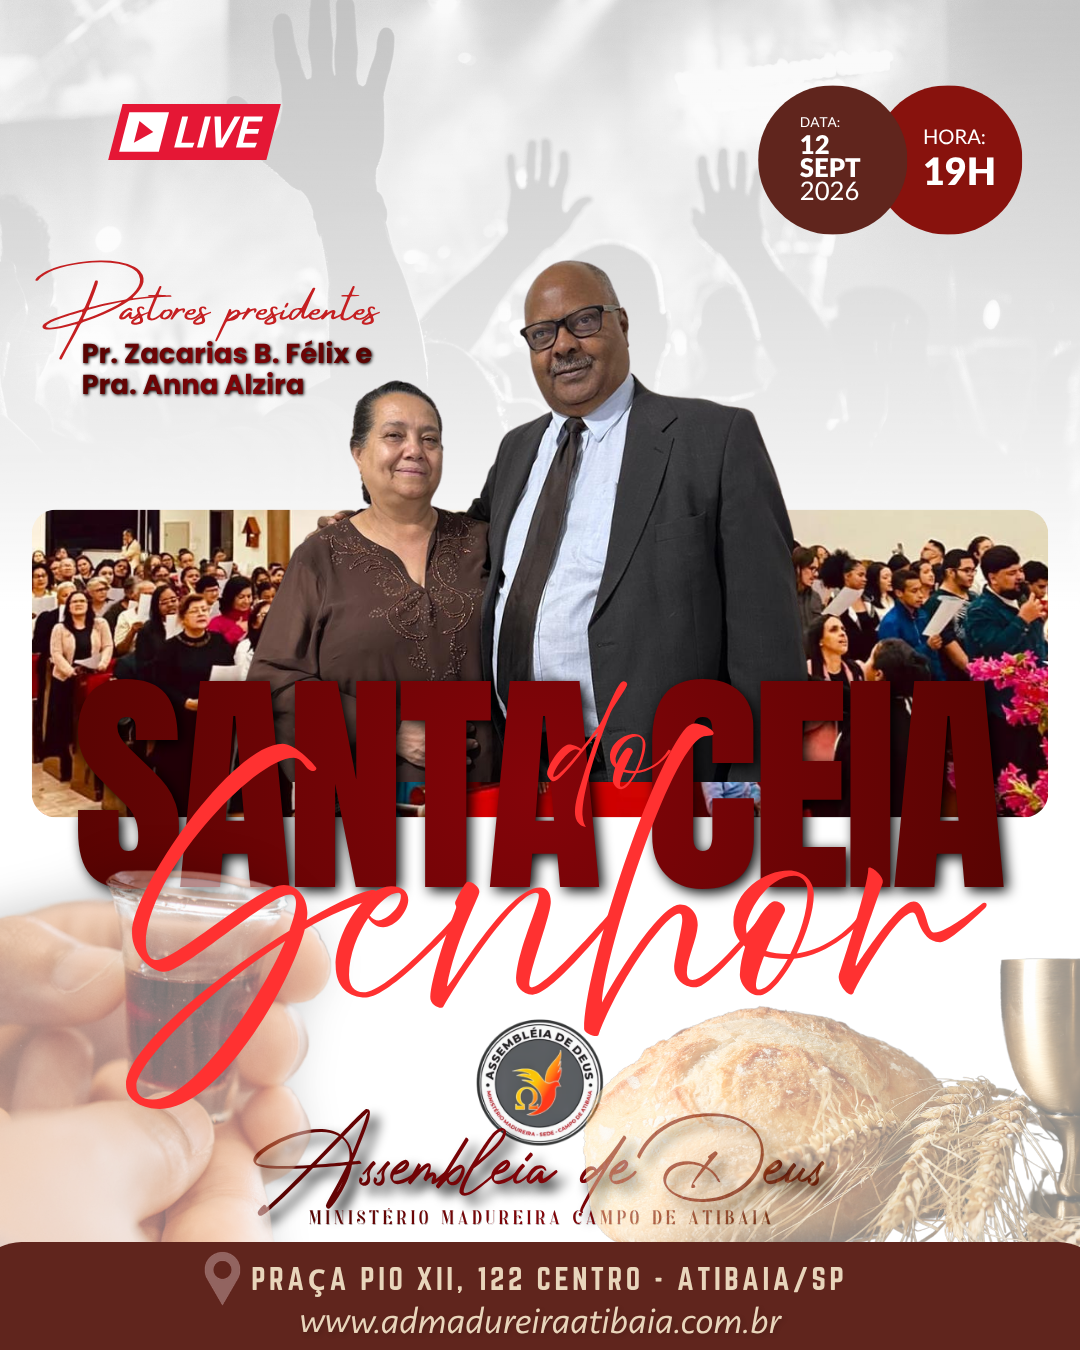
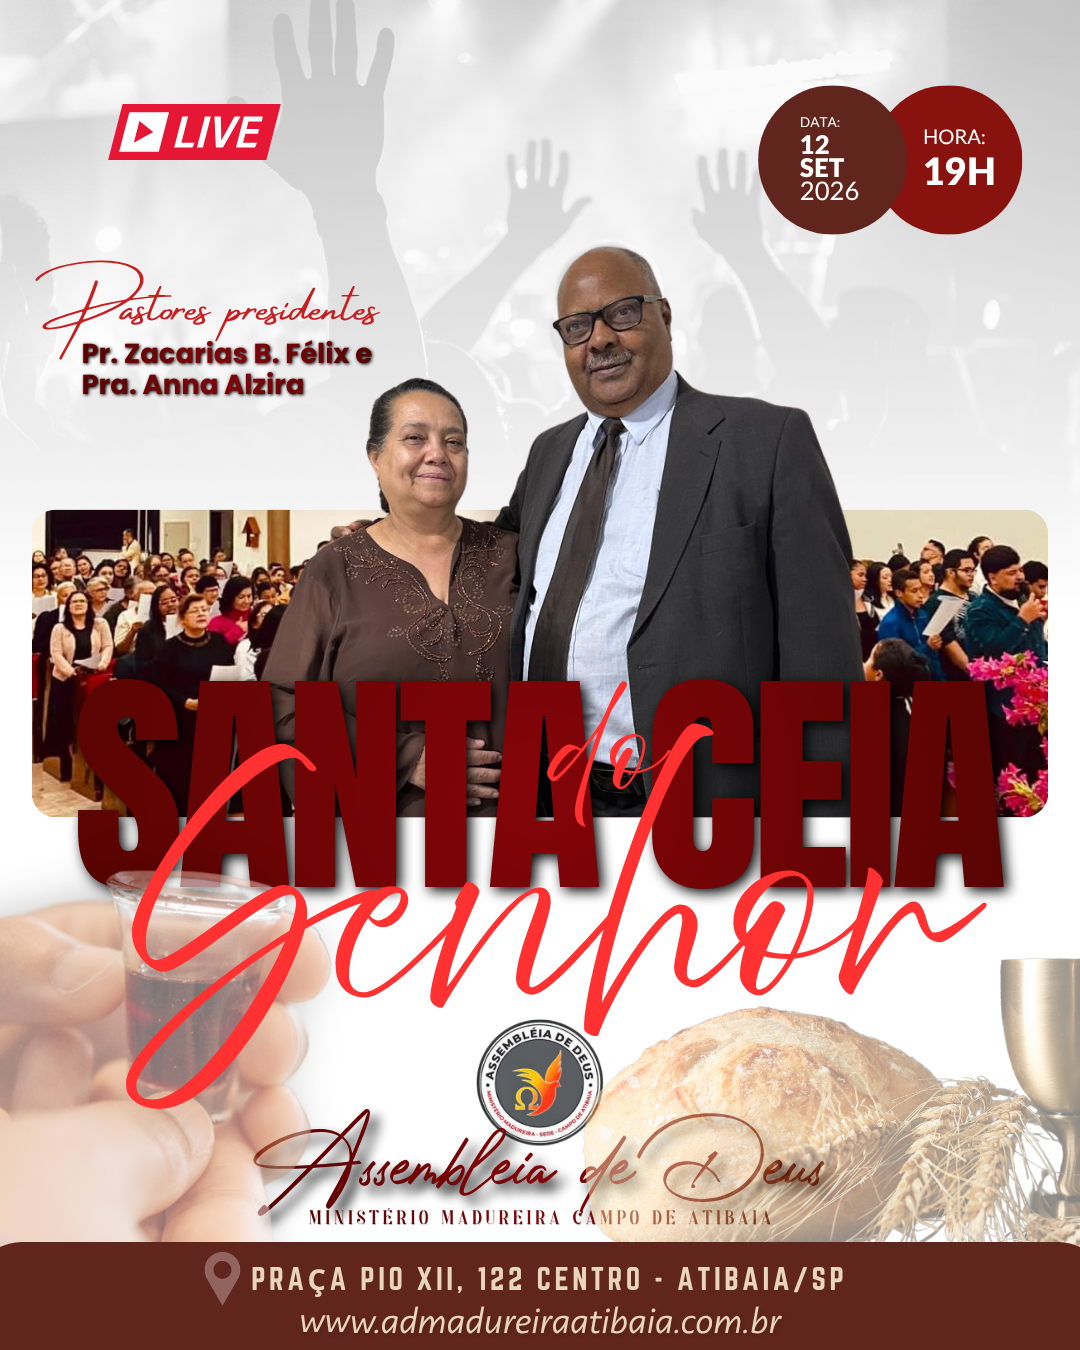
chore(artes): publica artes da semana de 07 a 13 de setembro (#156)
Adiciona as 13 artes novas da pasta public/programacao/semanas/2026-09-07
(oração matinal, culto de ensino, consagração de mulheres, círculo de
oração, ensaio das irmãs, culto da vitória, culto de libertação, EBD,
ensaio da mocidade, culto de domingo, oração matinal de domingo, jejum e
oração, reunião ministerial) e atualiza a arte da Santa Ceia, que estava
com a versão anterior no ar.

Regenera banner-semanal-manifest.ts: o bloco 2026-09-07 passa de 1 para
14 arquivos. Todos os nomes já constam do WEEKLY_FILENAME_MAP, então o
getBannerSemanal passa a servir a arte da semana automaticamente.

test:run 151/151, lint sem novos avisos.

diff --git a/src/data/banner-semanal-manifest.ts b/src/data/banner-semanal-manifest.ts
@@ -357,6 +357,19 @@ export const BANNERS_SEMANAIS_DISPONIVEIS: Record<string, readonly string[]> = {
     "oracao-matinal.png"
   ],
   "2026-09-07": [
+    "circulo-de-oracao.png",
+    "consagracao-mulheres.png",
+    "culto-de-domingo.png",
+    "culto-de-ensino.png",
+    "culto-de-libertacao.png",
+    "culto-de-quinta.png",
+    "ebd.png",
+    "ensaio-irmas.png",
+    "ensaio-jovens.png",
+    "jejum-e-oração.png",
+    "oracao-matinal-domingo.png",
+    "oracao-matinal.png",
+    "reuniao-ministerial.png",
     "santa-ceia.png"
   ],
   "2026-09-21": [
